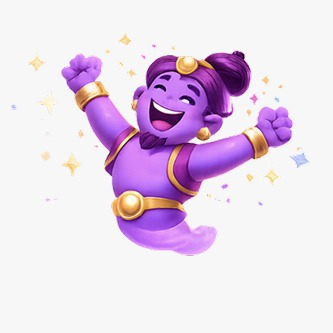
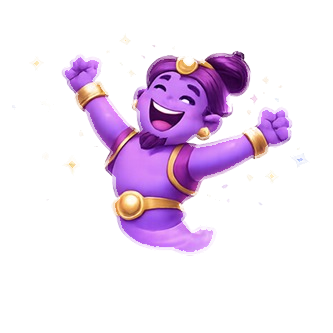
feat: carrom rotary-phone grab + transparent genie + puck z-index fix
Grab anywhere on ring track (±55px) instead of just near the puck —
rotary-phone feel where touching any point on the dial and rotating
clockwise drives the puck. Angular delta of pointer (not puck position)
drives progress so grab position doesn't matter. Puck z-index:20 so it
renders visibly above inner circle. Removed genie image white background
(flood-fill + feathering → proper transparent PNG). Inner circle set to
overflow-visible so genie can scale beyond circle bounds on reveal.

diff --git a/app/customer/games/summon-circle/page.tsx b/app/customer/games/summon-circle/page.tsx
@@ -96,17 +96,18 @@ function SummonCircleContent() {
   const [flash, setFlash]         = useState(false)
   const [showBurst, setShowBurst] = useState(false)
 
-  const firedRef         = useRef(false)
-  const isDownRef        = useRef(false)
-  const containerRef     = useRef<HTMLDivElement>(null)
-  const milestonesRef    = useRef<Set<number>>(new Set())
-  const prevClockwiseRef = useRef(0)   // degrees 0–340, puck's current position
+  const firedRef          = useRef(false)
+  const isDownRef         = useRef(false)
+  const containerRef      = useRef<HTMLDivElement>(null)
+  const milestonesRef     = useRef<Set<number>>(new Set())
+  const prevPointerAngle  = useRef(0)   // pointer's raw clockwise angle (0–360)
+  const puckTravelRef     = useRef(0)   // cumulative puck travel in degrees (0–340)
 
   const coveragePct  = Math.round(coverage * 100)
   const orbitVisible = coverage > 0.1
 
-  // Puck position on the ring (SVG coordinates)
-  const puckAngleRad = (-90 + coverage * 340) * (Math.PI / 180)
+  // Puck position on the ring (SVG coordinates) — always at 12 o'clock + travel
+  const puckAngleRad = (-90 + puckTravelRef.current) * (Math.PI / 180)
   const puckX = CX + RING_R * Math.cos(puckAngleRad)
   const puckY = CY + RING_R * Math.sin(puckAngleRad)
 
@@ -125,12 +126,14 @@ function SummonCircleContent() {
     const rect = containerRef.current.getBoundingClientRect()
     const touchX = e.clientX - rect.left
     const touchY = e.clientY - rect.top
-    // Only grab if finger is on/near the puck
-    if (Math.hypot(touchX - puckX, touchY - puckY) > 48) return
+    // Grab anywhere near the ring track — like placing finger on a rotary dial
+    const distFromCenter = Math.hypot(touchX - CX, touchY - CY)
+    if (Math.abs(distFromCenter - RING_R) > 55) return
     ;(e.currentTarget as HTMLElement).setPointerCapture(e.pointerId)
     isDownRef.current = true
     setIsDragging(true)
-    prevClockwiseRef.current = coverage * 340
+    // Track pointer's angular position (not puck position) — delta drives the puck
+    prevPointerAngle.current = (Math.atan2(touchY - CY, touchX - CX) * 180 / Math.PI + 90 + 360) % 360
   }
 
   const onPointerMove = (e: React.PointerEvent) => {
@@ -138,17 +141,17 @@ function SummonCircleContent() {
     const rect = containerRef.current.getBoundingClientRect()
     const dx = e.clientX - rect.left - CX
     const dy = e.clientY - rect.top  - CY
-    // Clockwise angle from 12 o'clock (0° at top, increasing clockwise)
     const cwAngle = (Math.atan2(dy, dx) * 180 / Math.PI + 90 + 360) % 360
 
-    // Delta from previous position — handles 360° wrap
-    let delta = cwAngle - (prevClockwiseRef.current % 360)
+    // Angular delta of pointer — drives puck travel regardless of grab position
+    let delta = cwAngle - prevPointerAngle.current
     if (delta >  180) delta -= 360
     if (delta < -180) delta += 360
+    prevPointerAngle.current = cwAngle
 
-    const newCw = Math.min(340, Math.max(0, prevClockwiseRef.current + delta))
-    prevClockwiseRef.current = newCw
-    const newCoverage = newCw / 340
+    const newTravel = Math.min(340, Math.max(0, puckTravelRef.current + delta))
+    puckTravelRef.current = newTravel
+    const newCoverage = newTravel / 340
     setCoverage(newCoverage)
 
     // Haptic at 25 / 50 / 75%
@@ -158,7 +161,7 @@ function SummonCircleContent() {
       if (typeof navigator !== 'undefined') navigator.vibrate?.([30, 20, 50])
     }
 
-    if (newCw >= 340 && !firedRef.current) triggerClaim()
+    if (newTravel >= 340 && !firedRef.current) triggerClaim()
   }
 
   const onPointerUp = () => {
@@ -376,11 +379,11 @@ function SummonCircleContent() {
             )}
           </svg>
 
-          {/* Carrom puck — draggable striker on the ring */}
+          {/* Carrom puck — draggable striker on the ring, above inner circle */}
           {!claimed && (
             <motion.div
               className="absolute pointer-events-none"
-              style={{ left: puckX - 22, top: puckY - 22, width: 44, height: 44 }}
+              style={{ left: puckX - 22, top: puckY - 22, width: 44, height: 44, zIndex: 20 }}
               animate={!isDragging && coverage === 0
                 ? { scale: [1, 1.12, 1], y: [0, -3, 0] }
                 : { scale: isDragging ? 0.94 : 1, y: 0 }
@@ -454,7 +457,7 @@ function SummonCircleContent() {
 
           {/* Inner circle — lamp or genie */}
           <motion.div
-            className="absolute inset-6 rounded-full flex items-center justify-center overflow-hidden"
+            className="absolute inset-6 rounded-full flex items-center justify-center overflow-visible"
             style={{
               background: 'radial-gradient(circle at 40% 35%, rgba(110,45,210,0.75) 0%, rgba(18,6,50,0.96) 70%)',
               boxShadow: claimed